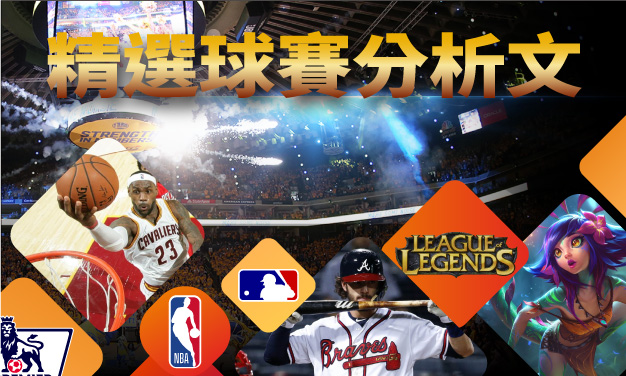
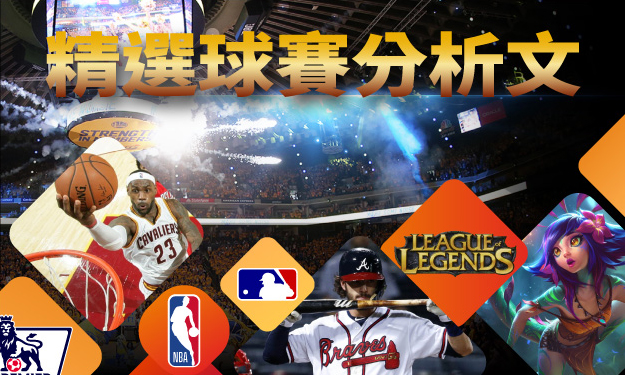
圖片修改
去除左邊線跟上邊線各1px

diff --git a/banner.html b/banner.html
@@ -75,6 +75,24 @@
 
       <div class="row align-items-stretch">
         
+        
+        <div class="col-6 col-md-6 col-lg-4" data-aos="fade-up">
+          <a href="images/images_banner_002/20170828_edm_a001.jpg" class="d-block photo-item" data-fancybox="gallery">
+            <img src="images/images_banner_002/20170828_edm_a001.jpg" alt="Image" class="img-fluid">
+            <div class="photo-text-more">
+              <span class="icon icon-search"></span>
+            </div>
+          </a>
+        </div>
+        <div class="col-6 col-md-6 col-lg-8" data-aos="fade-up" data-aos-delay="100">
+          <a href="images/images_banner_002/logo-final-1.gif" class="d-block photo-item" data-fancybox="gallery">
+            <img src="images/images_banner_002/logo-final-1.gif" alt="Image" class="img-fluid">
+            <div class="photo-text-more">
+              <span class="icon icon-search"></span>
+            </div>
+          </a>
+        </div>
+          
         <div class="col-6 col-md-6 col-lg-6" data-aos="fade-up">
           <a href="images/images_banner_002/AD_760x400_A.jpg" class="d-block photo-item" data-fancybox="gallery">
             <img src="images/images_banner_002/AD_760x400_A.jpg" alt="Image" class="img-fluid">
@@ -109,31 +127,216 @@
           </a>
         </div>
         <div class="col-6 col-md-6 col-lg-6" data-aos="fade-up" data-aos-delay="100">
-          <a href="images/images_banner_002/Banner_735x234_02.jpg" class="d-block photo-item" data-fancybox="gallery">
-            <img src="images/images_banner_002/Banner_735x234_02.jpg" alt="Image" class="img-fluid">
+          <a href="images/images_banner_003/A_banner_626x376_B_001.jpg" class="d-block photo-item" data-fancybox="gallery">
+            <img src="images/images_banner_003/A_banner_626x376_B_001.jpg" alt="Image" class="img-fluid">
             <div class="photo-text-more">
               <span class="icon icon-search"></span>
             </div>
           </a>
         </div>
-
+          
         <div class="col-6 col-md-6 col-lg-4" data-aos="fade-up">
-          <a href="images/images_banner_002/20170828_edm_a001.jpg" class="d-block photo-item" data-fancybox="gallery">
-            <img src="images/images_banner_002/20170828_edm_a001.jpg" alt="Image" class="img-fluid">
+          <a href="images/images_banner_003/A_banner_5001x2501_A_001.jpg" class="d-block photo-item" data-fancybox="gallery">
+            <img src="images/images_banner_003/A_banner_5001x2501_A_001.jpg" alt="Image" class="img-fluid">
             <div class="photo-text-more">
               <span class="icon icon-search"></span>
             </div>
           </a>
         </div>
-        <div class="col-6 col-md-6 col-lg-7" data-aos="fade-up" data-aos-delay="100">
-          <a href="images/images_banner_002/logo-final-1.gif" class="d-block photo-item" data-fancybox="gallery">
-            <img src="images/images_banner_002/logo-final-1.gif" alt="Image" class="img-fluid">
+        <div class="col-6 col-md-6 col-lg-8" data-aos="fade-up" data-aos-delay="100">
+          <a href="images/images_banner_003/A_banner_5001x1250_B_001.jpg" class="d-block photo-item" data-fancybox="gallery">
+            <img src="images/images_banner_003/A_banner_5001x1250_B_001.jpg" alt="Image" class="img-fluid">
+            <div class="photo-text-more">
+              <span class="icon icon-search"></span>
+            </div>
+          </a>
+        </div>
+          
+          <!--=== 一組BOX 1 ===-->
+
+        <div class="col-6 col-md-6 col-lg-6" data-aos="fade-up">
+          <a href="images/images_banner_003/A_banner_5001x2501_A_003.jpg" class="d-block photo-item" data-fancybox="gallery">
+            <img src="images/images_banner_003/A_banner_5001x2501_A_003.jpg" alt="Image" class="img-fluid">
+            <div class="photo-text-more">
+              <span class="icon icon-search"></span>
+            </div>
+          </a>
+        </div>
+        <div class="col-6 col-md-6 col-lg-3" data-aos="fade-up" data-aos-delay="100">
+          <a href="images/images_banner_003/banner_main_2074x898_A_001a.jpg" class="d-block photo-item" data-fancybox="gallery">
+            <img src="images/images_banner_003/banner_main_2074x898_A_001a.jpg" alt="Image" class="img-fluid">
+            <div class="photo-text-more">
+              <span class="icon icon-search"></span>
+            </div>
+          </a>
+        </div>
+        <div class="col-6 col-md-6 col-lg-3" data-aos="fade-up" data-aos-delay="200">
+          <a href="images/images_banner_003/banner_main_2074x898_A_002a.jpg" class="d-block photo-item" data-fancybox="gallery">
+            <img src="images/images_banner_003/banner_main_2074x898_A_002a.jpg" alt="Image" class="img-fluid">
             <div class="photo-text-more">
               <span class="icon icon-search"></span>
             </div>
           </a>
         </div>
 
+        <div class="col-6 col-md-6 col-lg-6" data-aos="fade-up">
+          <a href="images/images_banner_003/banner_main_2074x898_A_003a.jpg" class="d-block photo-item" data-fancybox="gallery">
+            <img src="images/images_banner_003/banner_main_2074x898_A_003a.jpg" alt="Image" class="img-fluid">
+            <div class="photo-text-more">
+              <span class="icon icon-search"></span>
+            </div>
+          </a>
+        </div>
+        <div class="col-6 col-md-6 col-lg-6" data-aos="fade-up" data-aos-delay="100">
+          <a href="images/images_banner_003/banner_news_1160x360_Blue_001.jpg" class="d-block photo-item" data-fancybox="gallery">
+            <img src="images/images_banner_003/banner_news_1160x360_Blue_001.jpg" alt="Image" class="img-fluid">
+            <div class="photo-text-more">
+              <span class="icon icon-search"></span>
+            </div>
+          </a>
+        </div>
+          
+        <div class="col-6 col-md-6 col-lg-4" data-aos="fade-up">
+          <a href="images/images_banner_003/banner_news_1160x360_Blue_002.jpg" class="d-block photo-item" data-fancybox="gallery">
+            <img src="images/images_banner_003/banner_news_1160x360_Blue_002.jpg" alt="Image" class="img-fluid">
+            <div class="photo-text-more">
+              <span class="icon icon-search"></span>
+            </div>
+          </a>
+        </div>
+        <div class="col-6 col-md-6 col-lg-8" data-aos="fade-up" data-aos-delay="100">
+          <a href="images/images_banner_003/banner_news_1160x360_Blue_003.jpg" class="d-block photo-item" data-fancybox="gallery">
+            <img src="images/images_banner_003/banner_news_1160x360_Blue_003.jpg" alt="Image" class="img-fluid">
+            <div class="photo-text-more">
+              <span class="icon icon-search"></span>
+            </div>
+          </a>
+        </div>
+          
+          <!--=== 一組BOX 2 ===-->
+          
+        <div class="col-6 col-md-6 col-lg-6" data-aos="fade-up">
+          <a href="images/images_banner_003/banner_news_1160x360_Blue_004.jpg" class="d-block photo-item" data-fancybox="gallery">
+            <img src="images/images_banner_003/banner_news_1160x360_Blue_004.jpg" alt="Image" class="img-fluid">
+            <div class="photo-text-more">
+              <span class="icon icon-search"></span>
+            </div>
+          </a>
+        </div>
+        <div class="col-6 col-md-6 col-lg-3" data-aos="fade-up" data-aos-delay="100">
+          <a href="images/images_banner_003/banner_news_1160x360_Green_001.jpg" class="d-block photo-item" data-fancybox="gallery">
+            <img src="images/images_banner_003/banner_news_1160x360_Green_001.jpg" alt="Image" class="img-fluid">
+            <div class="photo-text-more">
+              <span class="icon icon-search"></span>
+            </div>
+          </a>
+        </div>
+        <div class="col-6 col-md-6 col-lg-3" data-aos="fade-up" data-aos-delay="200">
+          <a href="images/images_banner_003/banner_news_1160x360_Red_001.jpg" class="d-block photo-item" data-fancybox="gallery">
+            <img src="images/images_banner_003/banner_news_1160x360_Red_001.jpg" alt="Image" class="img-fluid">
+            <div class="photo-text-more">
+              <span class="icon icon-search"></span>
+            </div>
+          </a>
+        </div>
+
+        <div class="col-6 col-md-6 col-lg-6" data-aos="fade-up">
+          <a href="images/images_banner_003/banner_news_1160x360_Red_002.jpg" class="d-block photo-item" data-fancybox="gallery">
+            <img src="images/images_banner_003/banner_news_1160x360_Red_002.jpg" alt="Image" class="img-fluid">
+            <div class="photo-text-more">
+              <span class="icon icon-search"></span>
+            </div>
+          </a>
+        </div>
+        <div class="col-6 col-md-6 col-lg-6" data-aos="fade-up" data-aos-delay="100">
+          <a href="images/images_banner_003/banner_news_1160x360_Blue_001.jpg" class="d-block photo-item" data-fancybox="gallery">
+            <img src="images/images_banner_003/banner_news_1160x360_Blue_001.jpg" alt="Image" class="img-fluid">
+            <div class="photo-text-more">
+              <span class="icon icon-search"></span>
+            </div>
+          </a>
+        </div>
+          
+        <div class="col-6 col-md-6 col-lg-4" data-aos="fade-up">
+          <a href="images/images_banner_003/banner_news_1160x360_Red_003.jpg" class="d-block photo-item" data-fancybox="gallery">
+            <img src="images/images_banner_003/banner_news_1160x360_Red_003.jpg" alt="Image" class="img-fluid">
+            <div class="photo-text-more">
+              <span class="icon icon-search"></span>
+            </div>
+          </a>
+        </div>
+        <div class="col-6 col-md-6 col-lg-8" data-aos="fade-up" data-aos-delay="100">
+          <a href="images/images_banner_003/banner_news_1160x360_Red_004.jpg" class="d-block photo-item" data-fancybox="gallery">
+            <img src="images/images_banner_003/banner_news_1160x360_Red_004.jpg" alt="Image" class="img-fluid">
+            <div class="photo-text-more">
+              <span class="icon icon-search"></span>
+            </div>
+          </a>
+        </div>
+          
+          <!--=== 一組BOX 3 ===-->
+          
+        <div class="col-6 col-md-6 col-lg-6" data-aos="fade-up">
+          <a href="images/images_banner_003/best_banner_1600x650_A_02.jpg" class="d-block photo-item" data-fancybox="gallery">
+            <img src="images/images_banner_003/best_banner_1600x650_A_02.jpg" alt="Image" class="img-fluid">
+            <div class="photo-text-more">
+              <span class="icon icon-search"></span>
+            </div>
+          </a>
+        </div>
+        <div class="col-6 col-md-6 col-lg-3" data-aos="fade-up" data-aos-delay="100">
+          <a href="images/images_banner_003/DK511_banner_main_2074x898_A_001a.jpg" class="d-block photo-item" data-fancybox="gallery">
+            <img src="images/images_banner_003/DK511_banner_main_2074x898_A_001a.jpg" alt="Image" class="img-fluid">
+            <div class="photo-text-more">
+              <span class="icon icon-search"></span>
+            </div>
+          </a>
+        </div>
+        <div class="col-6 col-md-6 col-lg-3" data-aos="fade-up" data-aos-delay="200">
+          <a href="images/images_banner_003/DK511_banner_main_2074x898_A_002a.jpg" class="d-block photo-item" data-fancybox="gallery">
+            <img src="images/images_banner_003/DK511_banner_main_2074x898_A_002a.jpg" alt="Image" class="img-fluid">
+            <div class="photo-text-more">
+              <span class="icon icon-search"></span>
+            </div>
+          </a>
+        </div>
+
+        <div class="col-6 col-md-6 col-lg-6" data-aos="fade-up">
+          <a href="images/images_banner_003/DK511_banner_main_2074x898_A_003a.jpg" class="d-block photo-item" data-fancybox="gallery">
+            <img src="images/images_banner_003/DK511_banner_main_2074x898_A_003a.jpg" alt="Image" class="img-fluid">
+            <div class="photo-text-more">
+              <span class="icon icon-search"></span>
+            </div>
+          </a>
+        </div>
+        <div class="col-6 col-md-6 col-lg-6" data-aos="fade-up" data-aos-delay="100">
+          <a href="images/images_banner_003/EFG_banner_626x376_A_002.jpg" class="d-block photo-item" data-fancybox="gallery">
+            <img src="images/images_banner_003/EFG_banner_626x376_A_002.jpg" alt="Image" class="img-fluid">
+            <div class="photo-text-more">
+              <span class="icon icon-search"></span>
+            </div>
+          </a>
+        </div>
+          
+        <div class="col-6 col-md-6 col-lg-4" data-aos="fade-up">
+          <a href="images/images_banner_003/FB_banner_20191220_1640x624_A_002.jpg" class="d-block photo-item" data-fancybox="gallery">
+            <img src="images/images_banner_003/FB_banner_20191220_1640x624_A_002.jpg" alt="Image" class="img-fluid">
+            <div class="photo-text-more">
+              <span class="icon icon-search"></span>
+            </div>
+          </a>
+        </div>
+        <div class="col-6 col-md-6 col-lg-8" data-aos="fade-up" data-aos-delay="100">
+          <a href="images/images_banner_003/FB_banner_960x594_A_001.jpg" class="d-block photo-item" data-fancybox="gallery">
+            <img src="images/images_banner_003/FB_banner_960x594_A_001.jpg" alt="Image" class="img-fluid">
+            <div class="photo-text-more">
+              <span class="icon icon-search"></span>
+            </div>
+          </a>
+        </div>
+          
+          <!--=== 一組BOX 4 ===-->
+          
         <div class="col-6 col-md-6 col-lg-6" data-aos="fade-up">
           <a href="images/images_banner/head_ad_01.jpg" class="d-block photo-item" data-fancybox="gallery">
             <img src="images/images_banner/head_ad_01.jpg" alt="Image" class="img-fluid">
